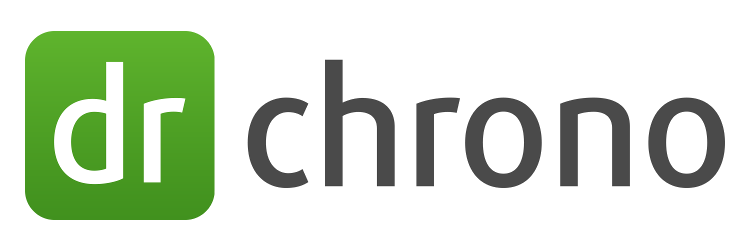
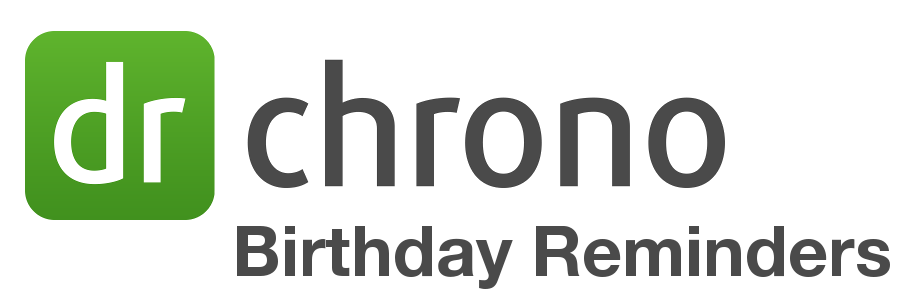
fix:nav links properly placed

diff --git a/birthday_reminder/static/style/birthday_reminder.css b/birthday_reminder/static/style/birthday_reminder.css
@@ -44,22 +44,14 @@ button:hover {
   width: 85%;
   margin: auto;
   font-family: Helvetica;
-  padding-right: 10px;
-  padding-bottom: 10px;
+  padding: 20px 40px;
   border-radius: 3px;
   box-shadow: 0px 0px 5px #4FA025;
 }
 
 #drchrono-logo {
   width: 100%;
-  max-width: 750px;
-}
-
-#bday-reminder-logo {
-  float: right;
-  font-size: 58px;
-  color: #4A4A4A;
-  margin-top: -30px;
+  max-width: 900px;
 }
 
 #about-app {}
@@ -157,7 +149,7 @@ button:hover {
 }
 
 #save-send-changes[disabled], #email-submit[disabled] {
-  cursor: not-allowed;
+  cursor: default;
   color: #D3D3D3;
   background-color: #808080;
   opacity: 0.2;
@@ -200,16 +192,14 @@ button:hover {
   width: 75%;
   max-width: 700px;
   font-size: 15px;
+  border: 0px;
+  box-shadow: 0 1px 1px #ccc;
+  padding: 10px;
 }
 
 #email-subject-input {
-  padding: 5px;
   margin-bottom: 25px;
   margin-top: 10px;
-}
-
-#email-body-input {
-  height: 75%;
 }
 
 /*navbar*/
@@ -255,7 +245,7 @@ button:hover {
 }
 
 .nav-class-text {
-  margin-top: 10px;
+  padding-top: 10px;
 }
 
 .drchrono-nav-text {
@@ -271,5 +261,9 @@ button:hover {
 
   #nav-patients, #sign-out {
     width: 125px;
+  }
+
+  #email-body-input, #email-subject-input {
+    width: 100%;
   }
 }

diff --git a/birthday_reminder/static/js/birthday_reminder.js b/birthday_reminder/static/js/birthday_reminder.js
@@ -2,8 +2,8 @@ function checkForEmailUpdate() {
   var $patientList = $('#patient-list');
   $patientList.on('change', 'input', prepareForSave);
 
-  var $allUserButton = $('#email-all-button');
-  $allUserButton.on('click', updateAllPatients);
+  var $allPatientsButton = $('#email-all-button');
+  $allPatientsButton.on('click', updateAllPatients);
 }
 
 function updateAllPatients(e) {
@@ -81,6 +81,7 @@ function saveEmail(e) {
   var $form = $(e.currentTarget.parentElement);
   var data = $form.serialize();
   var user_id = $form.data('user');
+
   var csrftoken = getCookie('csrftoken');
   $.ajax({
     url: '/api/doctor/' + user_id +'/',

diff --git a/birthday_reminder/templates/email.html b/birthday_reminder/templates/email.html
@@ -1,7 +1,7 @@
 {% extends 'base.html' %}
 {% block content %}
 
-<h1>Customize your email message</h1>
+<h1><i class="fa fa-pencil-square-o"></i> Customize your email message</h1>
 <form action="" method="" data-user="{{ user.id }}">
   <label>Email subject line:<br>
     <input id="email-subject-input" type="text" name="email_subject" value="{{ email_subject }}">
@@ -20,7 +20,9 @@
   </label>
   <br>
 
-  <button id="email-submit" type="submit">Save Changes</button>
+  <button id="email-submit" type="submit">
+    <i class="fa fa-check-square-o"></i> Save Changes
+  </button>
 </form>
 
 {% endblock %}

diff --git a/birthday_reminder/templates/index.html b/birthday_reminder/templates/index.html
@@ -39,7 +39,7 @@
   <i class="fa fa-check-square-o"></i> Save Changes
 </button>
 
-<div id="saving-wall" class="display-none">  
+<div id="saving-wall" class="display-none">
   <div id="saving-status">
     SAVING...
   </div>

diff --git a/birthday_reminder/templates/new_session.html b/birthday_reminder/templates/new_session.html
@@ -4,7 +4,6 @@
 
 <div id="logo" class="clearfix">
   <img id="drchrono-logo" src="{% static 'images/drchrono-lg.png' %}" alt="" />
-  <div id="bday-reminder-logo">Birthday Reminders</div>
 </div>
 
 <div id="login-button">

diff --git a/birthday_reminder/views.py b/birthday_reminder/views.py
@@ -3,7 +3,6 @@ from django.http import HttpResponse
 from django.views import generic
 from django.http import QueryDict
 from django.core import serializers
-from django.forms.models import modelform_factory
 
 from django.contrib.auth import login, logout, authenticate
 from django.contrib.auth.models import User
@@ -147,11 +146,7 @@ def save_patient(patient_data, user):
 def api_doctor(request, doctor_id):
     doctor = User.objects.get(id=doctor_id).doctor
     if request.method == 'PUT':
-        data = QueryDict(request.body)
-        for key in data:
-            setattr(doctor, key, data[key])
-
-        doctor.save()
+        handlePut(doctor, request.body)
 
     doctorJSON = serializers.serialize("json", [doctor])
     return HttpResponse(doctorJSON, content_type='application/json')
@@ -165,15 +160,18 @@ def api_patients_index(request):
 def api_patient(request, patient_id):
     patient = Patient.objects.get(pk=patient_id)
     if request.method == 'PUT':
-        data = QueryDict(request.body)
-        for key in data:
-            value = data[key]
-            if value == 'false':
-                value = False
-
-            setattr(patient, key, value)
-
-        patient.save()
+        handlePut(patient, request.body)
 
     patientJSON = serializers.serialize("json", [patient])
     return HttpResponse(patientJSON, content_type='application/json')
+
+def handlePut(model, body):
+    data = QueryDict(body)
+    for key in data:
+        value = data[key]
+        if value == 'false':
+            value = False
+
+        setattr(model, key, value)
+
+    model.save()
